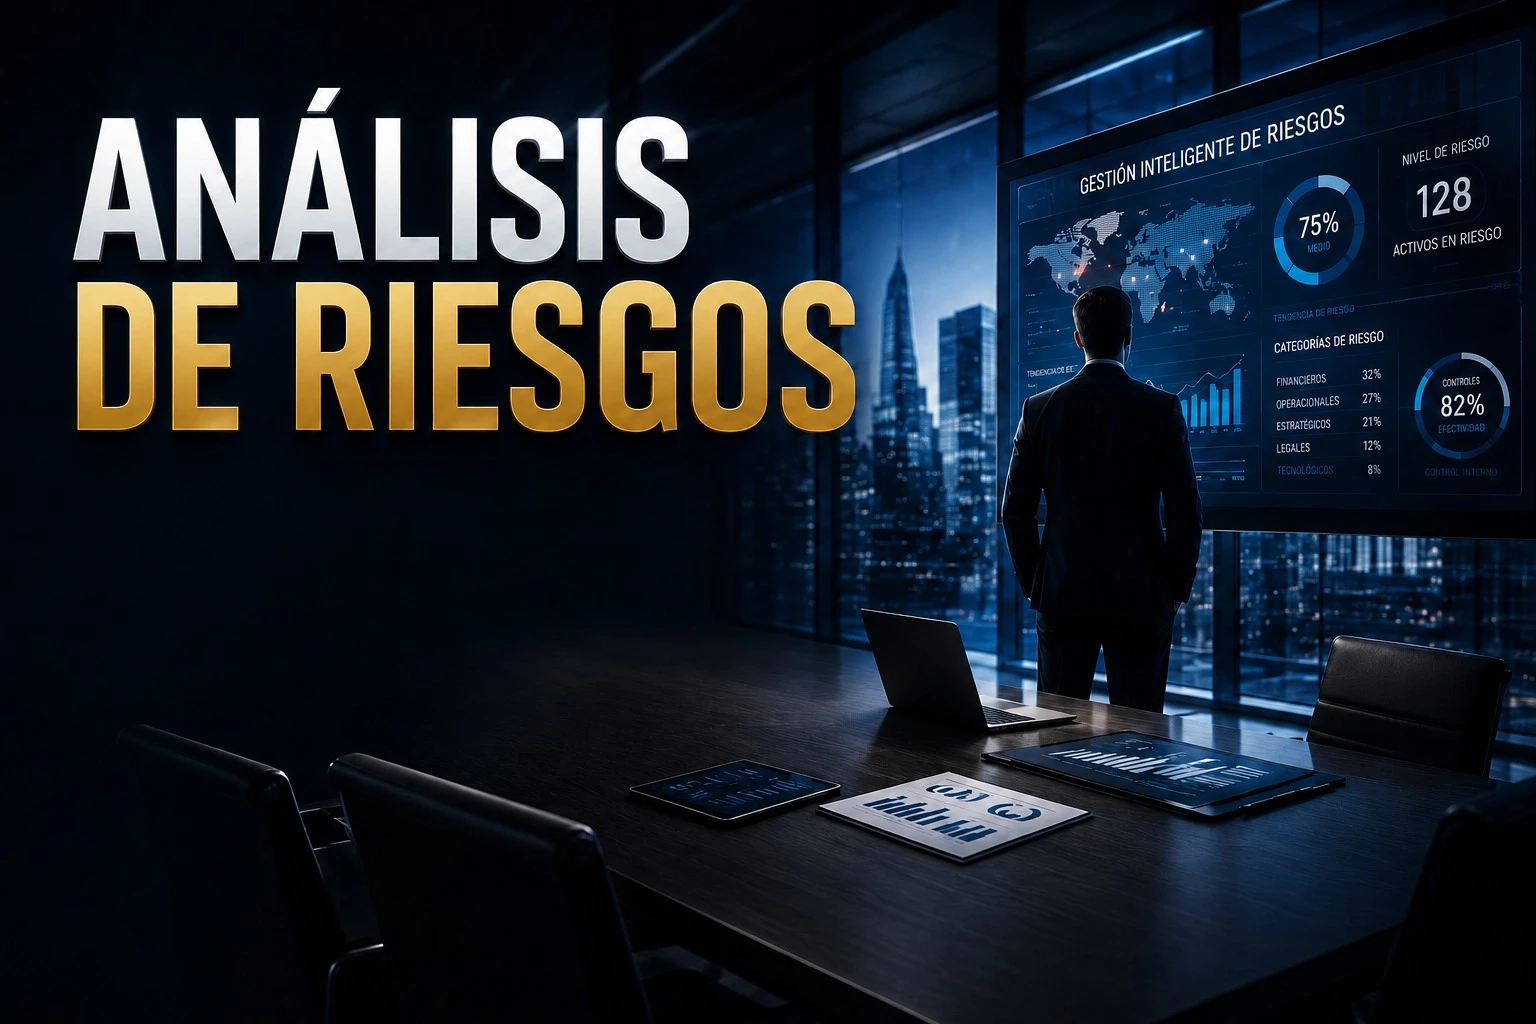
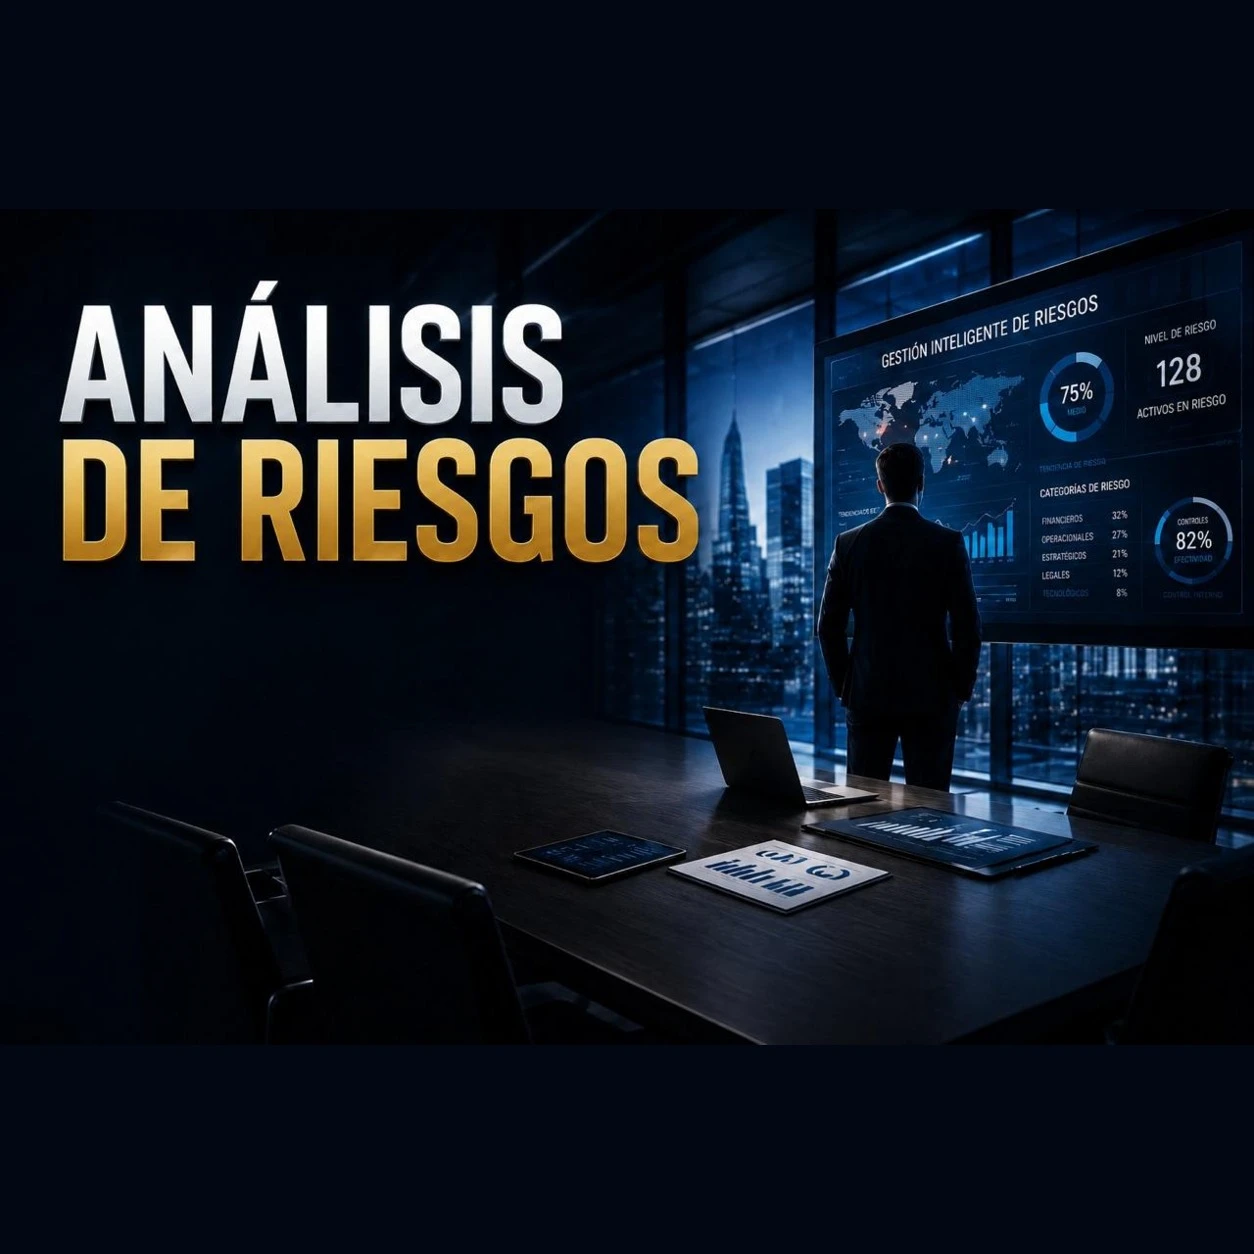
fix: service imgs

diff --git a/public/staticfiles/assets/custom/css/main.css b/public/staticfiles/assets/custom/css/main.css
@@ -13,24 +13,36 @@
 
 /* Global Colors - The following color variables are used throughout the website. Updating them here will change the color scheme of the entire website */
 :root {
-  --background-color: #ffffff; /* Background color for the entire website, including individual sections */
-  --default-color: #212529; /* Default color used for the majority of the text content across the entire website */
-  --heading-color: #95D0C8; /* Color for headings, subheadings and title throughout the website */
-  --accent-color: #2957A4; /* Accent color that represents your brand on the website. It's used for buttons, links, and other elements that need to stand out */
-  --surface-color: #ffffff; /* The surface color is used as a background of boxed elements within sections, such as cards, icon boxes, or other elements that require a visual separation from the global background. */
-  --contrast-color: #FED100; /* Contrast color for text, ensuring readability against backgrounds of accent, heading, or default colors. */
+  --background-color: #ffffff;
+  /* Background color for the entire website, including individual sections */
+  --default-color: #212529;
+  /* Default color used for the majority of the text content across the entire website */
+  --heading-color: #95D0C8;
+  /* Color for headings, subheadings and title throughout the website */
+  --accent-color: #2957A4;
+  /* Accent color that represents your brand on the website. It's used for buttons, links, and other elements that need to stand out */
+  --surface-color: #ffffff;
+  /* The surface color is used as a background of boxed elements within sections, such as cards, icon boxes, or other elements that require a visual separation from the global background. */
+  --contrast-color: #FED100;
+  /* Contrast color for text, ensuring readability against backgrounds of accent, heading, or default colors. */
 }
 
 /* #95D0C8 */
 
 /* Nav Menu Colors - The following color variables are used specifically for the navigation menu. They are separate from the global colors to allow for more customization options */
 :root {
-  --nav-color: #3a3939; /* The default color of the main navmenu links */
-  --nav-hover-color: #2957A4; /* Applied to main navmenu links when they are hovered over or active */
-  --nav-mobile-background-color: #dbdbdbeb; /* Used as the background color for mobile navigation menu */
-  --nav-dropdown-background-color: #dbdbdbeb; /* Used as the background color for dropdown items that appear when hovering over primary navigation items */
-  --nav-dropdown-color: #3a3939; /* Used for navigation links of the dropdown items in the navigation menu. */
-  --nav-dropdown-hover-color: #e84545; /* Similar to --nav-hover-color, this color is applied to dropdown navigation links when they are hovered over. */
+  --nav-color: #3a3939;
+  /* The default color of the main navmenu links */
+  --nav-hover-color: #2957A4;
+  /* Applied to main navmenu links when they are hovered over or active */
+  --nav-mobile-background-color: #dbdbdbeb;
+  /* Used as the background color for mobile navigation menu */
+  --nav-dropdown-background-color: #dbdbdbeb;
+  /* Used as the background color for dropdown items that appear when hovering over primary navigation items */
+  --nav-dropdown-color: #3a3939;
+  /* Used for navigation links of the dropdown items in the navigation menu. */
+  --nav-dropdown-hover-color: #e84545;
+  /* Similar to --nav-hover-color, this color is applied to dropdown navigation links when they are hovered over. */
 }
 
 /* Color Presets - These classes override global colors when applied to any section or element, providing reuse of the sam color scheme. */
@@ -271,7 +283,7 @@ h6 {
     padding-right: 0;
   }
 
-  .navmenu li:hover > a,
+  .navmenu li:hover>a,
   .navmenu .active,
   .navmenu .active:focus {
     color: var(--nav-hover-color);
@@ -310,11 +322,11 @@ h6 {
 
   .navmenu .dropdown ul a:hover,
   .navmenu .dropdown ul .active:hover,
-  .navmenu .dropdown ul li:hover > a {
+  .navmenu .dropdown ul li:hover>a {
     color: var(--nav-dropdown-hover-color);
   }
 
-  .navmenu .dropdown:hover > ul {
+  .navmenu .dropdown:hover>ul {
     opacity: 1;
     top: 100%;
     visibility: visible;
@@ -326,7 +338,7 @@ h6 {
     visibility: hidden;
   }
 
-  .navmenu .dropdown .dropdown:hover > ul {
+  .navmenu .dropdown .dropdown:hover>ul {
     opacity: 1;
     top: 0;
     left: -100%;
@@ -429,7 +441,7 @@ h6 {
     background-color: rgba(33, 37, 41, 0.1);
   }
 
-  .navmenu .dropdown > .dropdown-active {
+  .navmenu .dropdown>.dropdown-active {
     display: block;
     background-color: rgba(33, 37, 41, 0.03);
   }
@@ -456,7 +468,7 @@ h6 {
     transition: 0.3s;
   }
 
-  .mobile-nav-active .navmenu > ul {
+  .mobile-nav-active .navmenu>ul {
     display: block;
   }
 }
@@ -692,7 +704,8 @@ h6 {
 
 /* Modal de Bootstrap estilo WhatsApp */
 .modal-whatsapp .modal-content {
-  background-color: #e9edef; /* Fondo claro como WhatsApp */
+  background-color: #e9edef;
+  /* Fondo claro como WhatsApp */
   border-radius: 10px;
   overflow: hidden;
   border: none;
@@ -701,7 +714,8 @@ h6 {
 }
 
 .modal-whatsapp .chat-header {
-  background-color: #25d366; /* Cabecera verde */
+  background-color: #25d366;
+  /* Cabecera verde */
   color: white;
   padding: 15px;
   font-size: 16px;
@@ -802,8 +816,7 @@ h6 {
 
 .page-title .heading {
   padding: 80px 0;
-  border-top: 1px solid
-    color-mix(in srgb, var(--default-color), transparent 90%);
+  border-top: 1px solid color-mix(in srgb, var(--default-color), transparent 90%);
 }
 
 .page-title .heading h1 {
@@ -825,11 +838,11 @@ h6 {
   font-weight: 600;
 }
 
-.page-title nav ol li + li {
+.page-title nav ol li+li {
   padding-left: 10px;
 }
 
-.page-title nav ol li + li::before {
+.page-title nav ol li+li::before {
   content: "/";
   display: inline-block;
   padding-right: 10px;
@@ -849,6 +862,7 @@ section,
 }
 
 @media (max-width: 1199px) {
+
   section,
   .section {
     scroll-margin-top: 64px;
@@ -906,7 +920,8 @@ section,
 
 .hero-video {
   position: absolute;
-  inset: 0;   /* top, right, bottom, left = 0 */
+  inset: 0;
+  /* top, right, bottom, left = 0 */
   width: 100%;
   height: 100vh;
   overflow: hidden;
@@ -916,7 +931,8 @@ section,
 .hero-video img {
   width: 100%;
   height: 100%;
-  object-fit: cover;  /* asegura que la imagen cubra sin deformarse */
+  object-fit: cover;
+  /* asegura que la imagen cubra sin deformarse */
 }
 
 .hero:before {
@@ -1084,6 +1100,7 @@ section,
 }
 
 @media (max-width: 768px) {
+
   .about .icon-boxes .col-md-6:nth-child(2) .icon-box,
   .about .icon-boxes .col-md-6:nth-child(4) .icon-box {
     margin-top: 0;
@@ -1603,6 +1620,7 @@ section,
 }
 
 @media (max-width: 767px) {
+
   .testimonials .testimonials-carousel,
   .testimonials .testimonials-slider {
     overflow: hidden;
@@ -1654,11 +1672,9 @@ section,
   box-shadow: none;
   border-radius: 0;
   color: var(--default-color);
-  background-color: color-mix(
-    in srgb,
-    var(--background-color),
-    transparent 50%
-  );
+  background-color: color-mix(in srgb,
+      var(--background-color),
+      transparent 50%);
   border-color: color-mix(in srgb, var(--default-color), transparent 80%);
 }
 
@@ -1689,56 +1705,64 @@ section,
 
 
 .practice-grid {
-    display: grid;
-    grid-template-columns: repeat(4, minmax(0, 1fr));
-    gap: 1.5rem;
-    align-items: start;
+  display: flex;
+  flex-wrap: wrap;
+  justify-content: center;
+  gap: 1rem;
 }
 
 .practice-card {
-    position: relative;
-    display: block;
-    width: 100%;
-    overflow: hidden;
+  flex: 0 0 calc((100% - 3 * 1rem) / 4);
+  max-width: calc((100% - 3 * 1rem) / 4);
 }
 
 .practice-area-img {
-    width: 100%;
-    height: auto;
-    display: block;
+  display: block;
+  width: 100%;
+  aspect-ratio: 4 / 3;
+  object-fit: contain;
+  object-position: center;
 }
 
 .practice-overlay {
-    position: absolute;
-    inset: 0;
-    display: flex;
-    align-items: flex-end;
-    padding: 1.25rem;
-
-    background: linear-gradient(
-        to top,
-        rgba(0, 0, 0, .75),
-        rgba(0, 0, 0, .15),
-        transparent
-    );
+  position: absolute;
+  inset: 0;
+  display: flex;
+  align-items: flex-end;
+  justify-content: center;
+  padding: clamp(0.6rem, 1.2vw, 1.25rem);
+  background: linear-gradient(to top, rgba(0, 0, 0, 0.05) 0%, rgba(0, 0, 0, 0.01) 40%, transparent 75%);
 }
 
 .practice-overlay span {
-    color: #fff;
-    font-size: 1.1rem;
-    font-weight: 600;
+  color: #fff;
+  font-weight: 600;
+  font-size: clamp(0.85rem, 1.1vw, 1.1rem);
+  line-height: 1.25;
+  text-align: center;
+  text-wrap: balance;
+  overflow-wrap: anywhere;
+  hyphens: auto;
+  text-shadow: 0 1px 3px rgba(0, 0, 0, 0.027);
 }
 
-/* Tablets */
 @media (max-width: 992px) {
-    .practice-grid {
-        grid-template-columns: repeat(3, minmax(0, 1fr));
-    }
+  .practice-card {
+    flex-basis: calc((100% - 2 * 1rem) / 3);
+    max-width: calc((100% - 2 * 1rem) / 3);
+  }
 }
 
-/* Móviles */
-@media (max-width: 576px) {
-    .practice-grid {
-        grid-template-columns: repeat(2, minmax(0, 1fr));
-    }
+@media (max-width: 768px) {
+  .practice-card {
+    flex-basis: calc((100% - 1rem) / 2);
+    max-width: calc((100% - 1rem) / 2);
+  }
+}
+
+@media (max-width: 480px) {
+  .practice-card {
+    flex-basis: 100%;
+    max-width: 100%;
+  }
 }

diff --git a/apps/common/utils/context_processors/__init__.py b/apps/common/utils/context_processors/__init__.py
@@ -4,7 +4,7 @@ from django.utils.translation import gettext_lazy as _
 
 
 def custom_processors(request: Any) -> dict[str, Any]:
-    PRACTICE_AREAS: list[dict[str, str]] = [
+    PRACTICE_AREAS: Any = [
         {
             "image": "pensiones_negadas.webp",
             "subject": _("Denied Pensions"),
